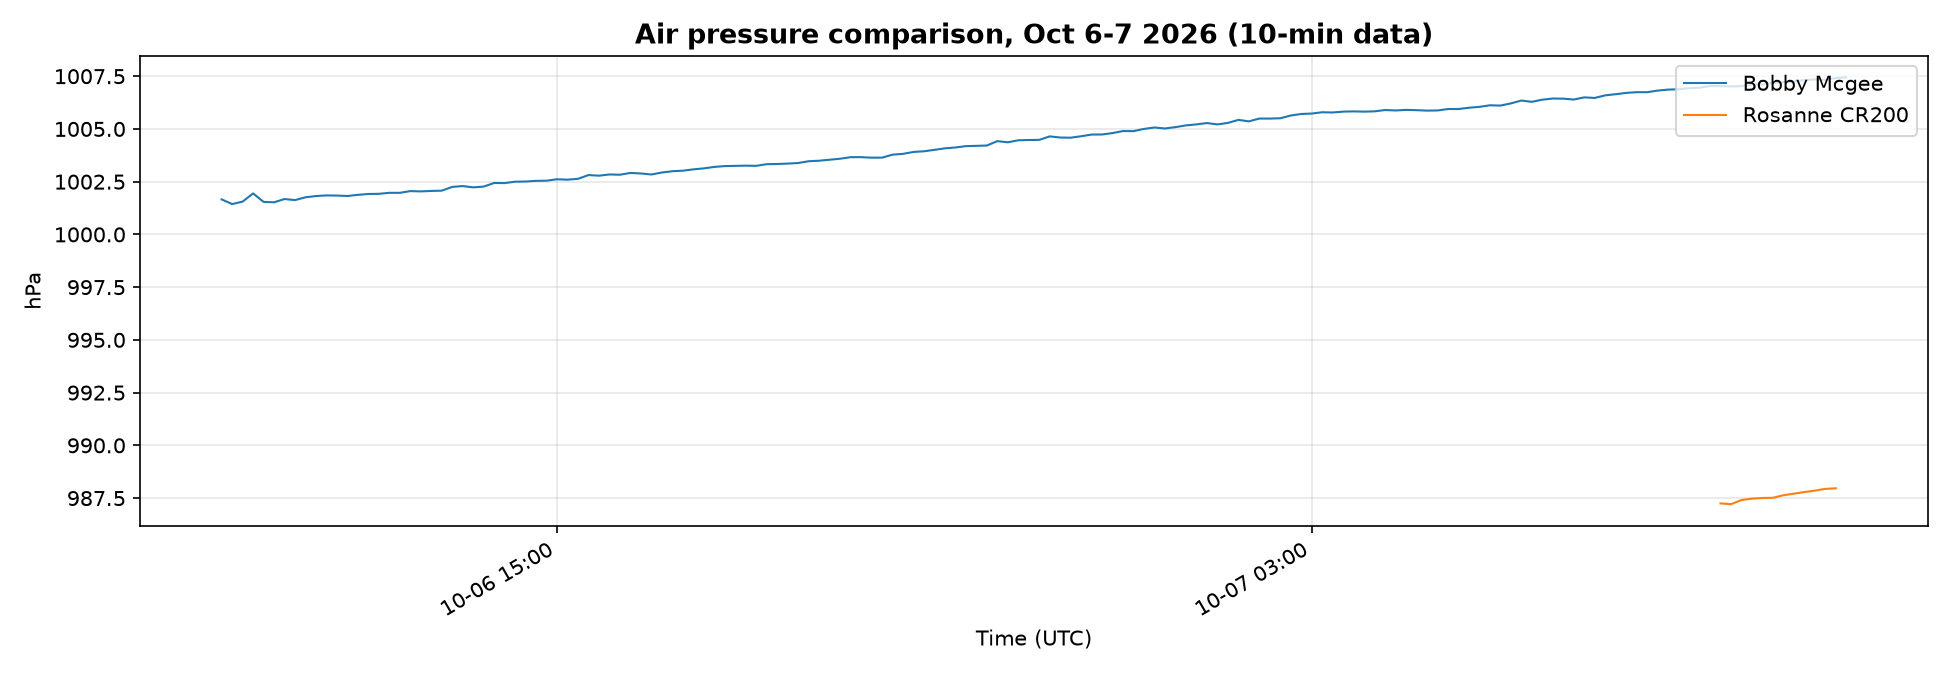
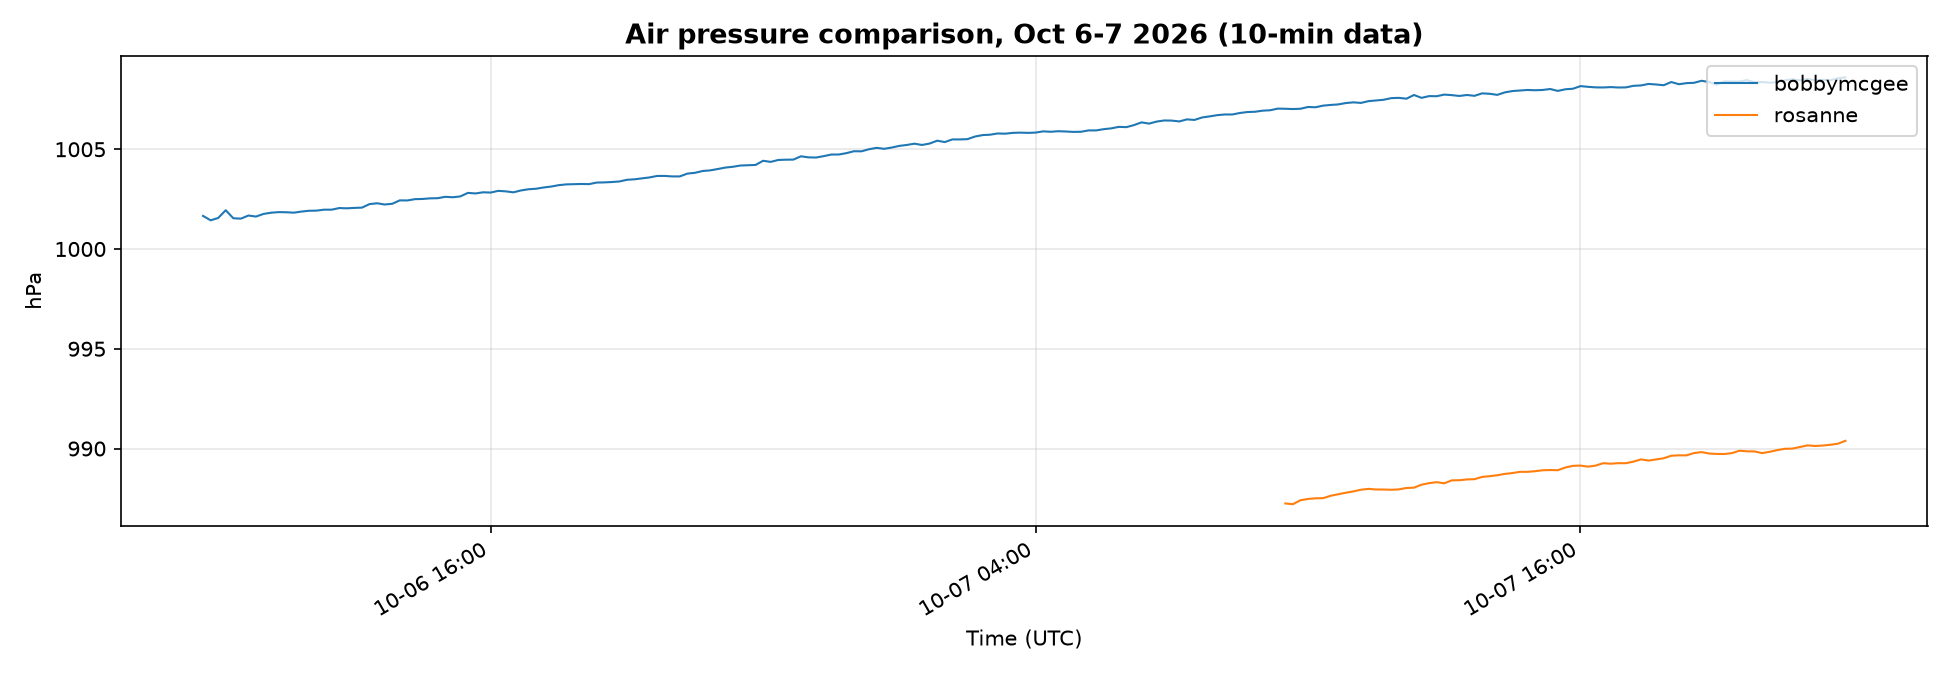
Regenerate AWS plots under new file naming (overview, wind roses, extra sensors, comparison)

diff --git a/03_data_analysis/src/analyze_aws_data.py b/03_data_analysis/src/analyze_aws_data.py
@@ -17,7 +17,7 @@ When at least two stations are processed in one run, comparison figures
 overlaying the stations are also produced.
 
 Output:
-    Plots are saved in the 2026/plots subfolder.
+    Plots are saved in the 04_plots folder.
 
 Dependencies:
     numpy, matplotlib
@@ -42,7 +42,7 @@ import numpy as np
 # ---------------------------------------------------------------------------
 SCRIPT_DIR = os.path.dirname(os.path.abspath(__file__))
 DATA_DIR = os.path.normpath(os.path.join(SCRIPT_DIR, "..", "data"))
-PLOT_DIR = os.path.normpath(os.path.join(SCRIPT_DIR, "..", "2026", "plots"))
+PLOT_DIR = os.path.normpath(os.path.join(SCRIPT_DIR, "..", "..", "04_plots"))
 OUTPUT_DPI = 150
 GAP_THRESHOLD_MIN = 30.0  # break time series where the sampling gap exceeds this
 DEFAULT_INTERVAL_MIN = 10  # resampling interval applied to the raw 1-min data
@@ -163,8 +163,17 @@ def resample_to_bins(times, columns, meas_types, interval_min):
 
 
 def station_name(path):
-    """Derive a readable station name from the file name."""
-    name = os.path.basename(path).split("_Res_data")[0]
+    """Derive a readable station name from the file name.
+
+    Supports the current naming convention
+    `YYYYMMDD_instrument_location_[...].dat` (e.g.
+    `20261008_bobbymcgee_endalen_1min.dat`) and the legacy
+    `<Station>_Res_data_...` pattern.
+    """
+    name = os.path.basename(path)
+    if "_" in name and name[:8].isdigit():
+        return name.split("_")[1]  # instrument field
+    name = name.split("_Res_data")[0]
     return name.replace("_", " ").replace(" Series", "").strip() or "Station"
 
 
